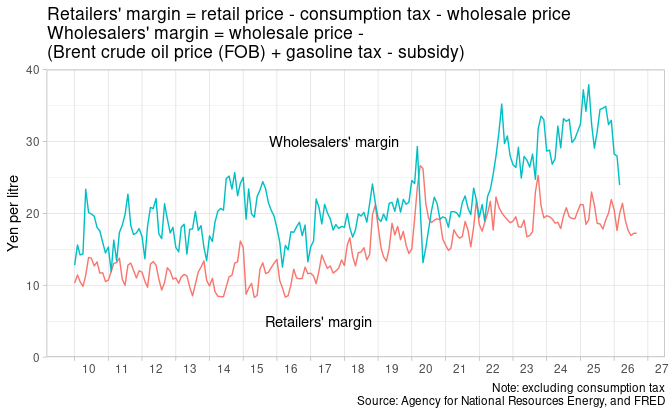
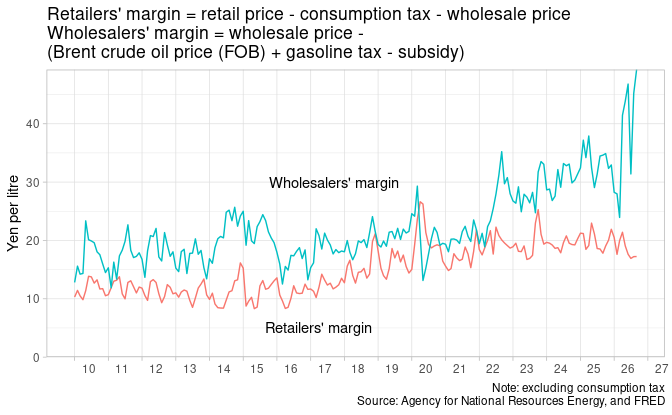
fix monthly plot

diff --git a/README.md b/README.md
@@ -745,7 +745,7 @@ rates in JPY / USD from [FRED by St. Louis
 FRB](https://fred.stlouisfed.org/), and transform them into JPY / litre
 using 1 barrel = 158.987 litre.
 
-As I could not get Dubai prices, I switched to Global Brent prices.
+As Dubai lacks some data, I switched to Brent.
 
 ``` r
 dubai <- tq_get(c("POILBREUSDM", "EXJPUS"), get = "economic.data", from = "2003-01-01")  |>
@@ -795,16 +795,14 @@ combo_monthly |>
   annotate("text", x = as.Date("2015-01-01"), y = 30,
            label = "Wholesalers' margin", hjust = -0.2) +
   scale_x_yearmonth(date_breaks = "1 year", date_labels = "%y") +
-  scale_y_continuous(limits = c(0, 40), expand = expansion(add = c(0, 0))) +
+  scale_y_continuous(expand = expansion(add = c(0, 0))) +
+  expand_limits(y = 0) +
   labs(x = NULL, y = "Yen per litre",
        title = "Retailers' margin = retail price - consumption tax - wholesale price\nWholesalers' margin = wholesale price -\n(Brent crude oil price (FOB) + gasoline tax - subsidy)",
        caption = "Note: excluding consumption tax\nSource: Agency for National Resources Energy, and FRED") +
   theme(axis.text.x = element_text(hjust = -0.5),
         panel.grid.minor.x = element_blank())
 ```
-
-    Warning: Removed 2 rows containing missing values or values outside the scale range
-    (`geom_line()`).
 
 ![Margin
 (monthly)](README_files/figure-commonmark/margin_plot_monthly-1.png)
